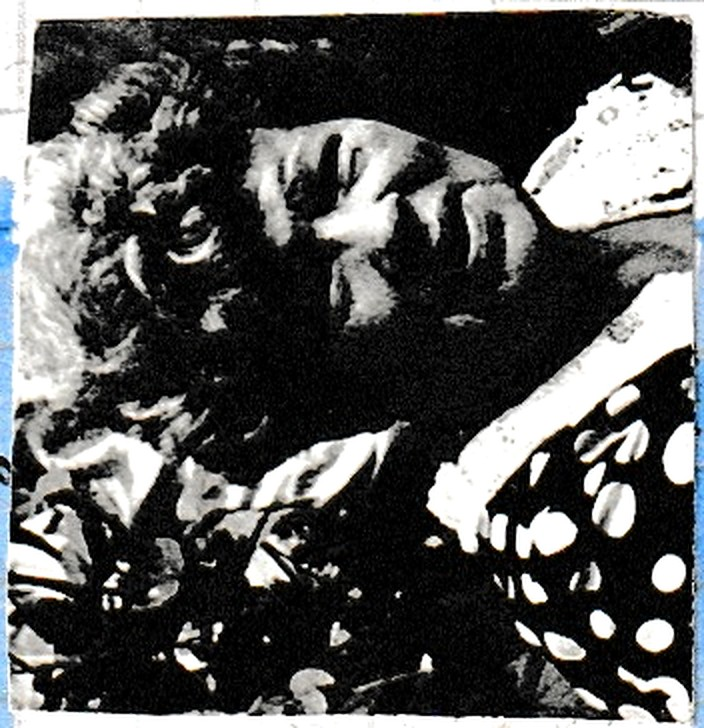
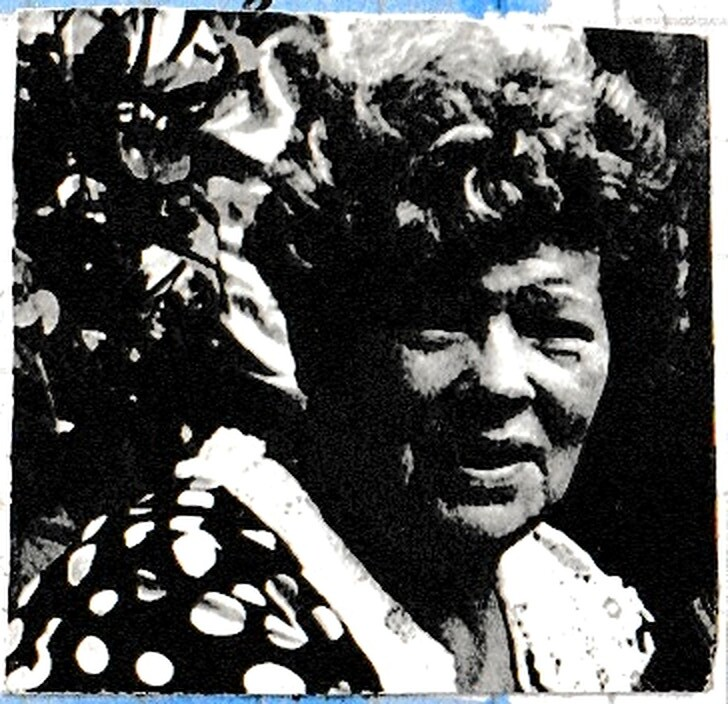
Fix Nina chart portrait orientation and audit all public photos
Rotate Nina Vasilievna portrait and context +90° to match upright
str-005 chart leaf; document full orientation pass (Aleksandr already
fixed; remaining priority portraits and album crops upright).

diff --git a/docs/PHOTO_ORIENTATION_AUDIT_2026-08-02.md b/docs/PHOTO_ORIENTATION_AUDIT_2026-08-02.md
@@ -1,0 +1,41 @@
+# Photo orientation audit — 2026-08-02
+
+After the young Aleksandr chart portrait was found sideways on production, all public portraits and priority content images were re-checked.
+
+## Method
+
+1. EXIF `Orientation` scan of all `static/photos/**` (211 files) — no non-default EXIF orientation tags (pixels already baked).
+2. Visual contact sheets of:
+   - person/chart portraits and covers;
+   - archive-b02 primary crops used on the site;
+   - early notebook leaves `str-00*`, sample later leaves, Samsonov album.
+3. Comparison of chart crops to upright full leaves (`str-003`, `str-005`).
+
+## Fixes applied
+
+| File | Issue | Fix |
+|---|---|---|
+| `static/photos/aleksandr-krivoshein/chart-young-portrait.jpg` (+ thumb, context) | Head on side (crop) | +90° CW — commit `a766c47` |
+| `static/photos/nina-vasilievna-krivosheina/portrait.jpg` (+ md, thumb) | Head on side (crop) | +90° CW |
+| `static/photos/nina-vasilievna-krivosheina/context-chart.jpg` | Whole context rotated vs `str-005` | +90° CW (text + photo match chart leaf) |
+
+## Confirmed upright (sample; no change)
+
+- Eva chart + album portrait  
+- Genya chart portrait  
+- T.P. chart portrait + family cluster + album 01–15  
+- Aleksandr formal portrait  
+- Tatyana garden + 2019 home  
+- D.A. Krivoshein `dmitry-portrait.jpg`  
+- archive-b02 crops in contact (mp001, 007, 013, 072, 075, …)  
+- Full leaves `str-001`, `str-002`, `str-003`, `str-005` (title/text readable top-to-bottom / left-to-right as expected)
+
+## Notes
+
+- Chart **full leaves** stay as photographed (landscape leaves for wide trees are correct when handwriting reads normally).
+- Individual **portrait crops** must have the subject’s head upright even if the physical print was glued at an angle on the leaf; for Nina the glue on `str-005` is already upright — the published crop had been rotated relative to that leaf.
+- Thumbs regenerated from fixed masters where applicable.
+
+## Production
+
+Push after this commit; hard-refresh if CDN/browser cache shows old Nina/Aleksandr files.
